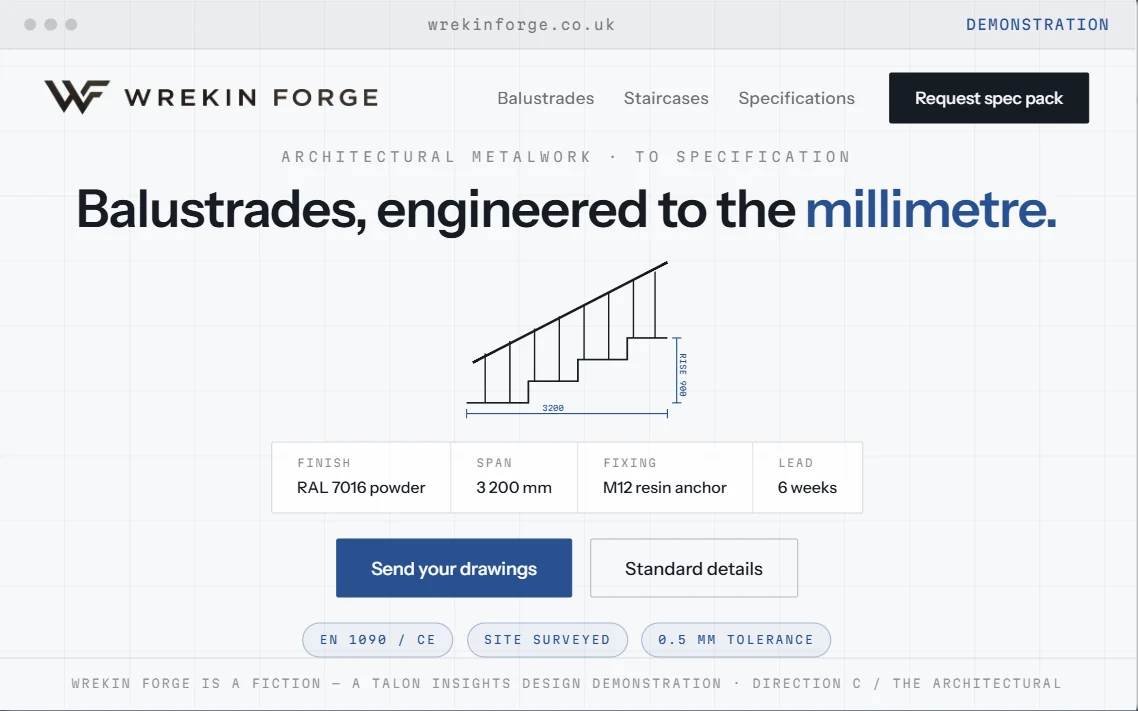
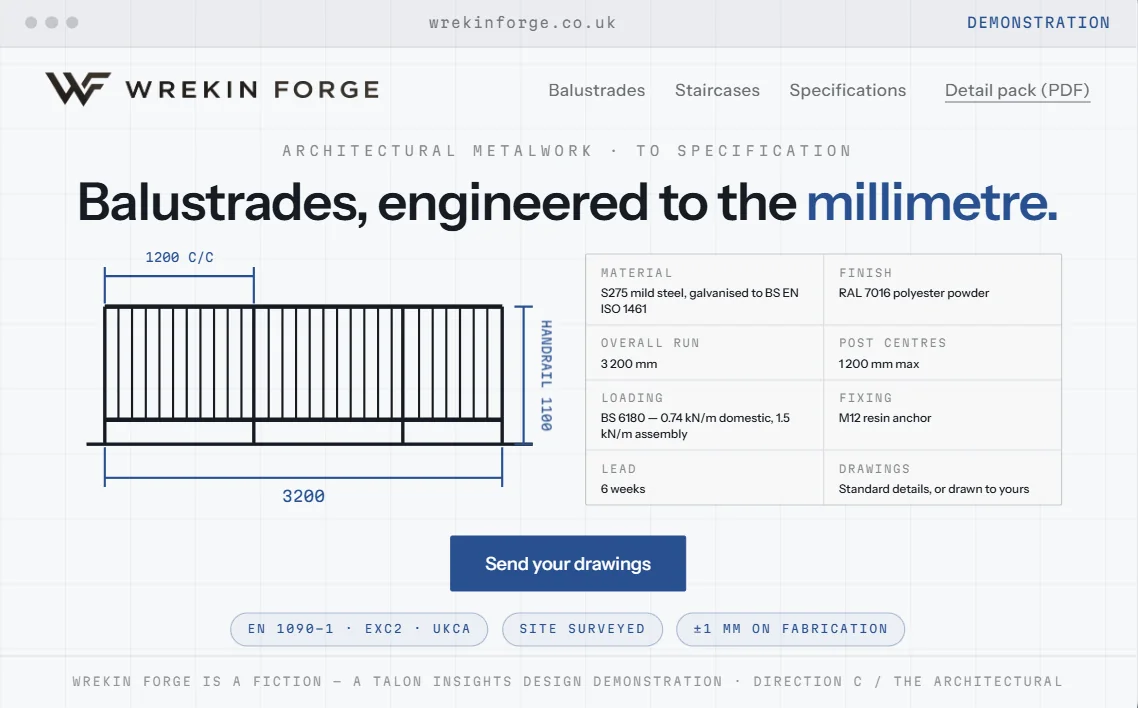
The cards catch up, and the fire page loses its second ask
The heritage and architectural cards carried portraits of the pages as they
were before the accuracy round, so the folder was still showing claims the
pages no longer make. Owner recaptured both; re-encoded at 84 and dropped in
under the same names.

On the fire page the top-right Commission button went (owner's call — two
asks for the same thing, and the stage's own Commission a piece is the one
that stokes the fire when you reach for it). The bar is logo left, sections
right now, with a little more air between them to hold that side on its own,
and every fh-navcta rule went with the button. Its standard reference was
the vague one Direction C has already outgrown: EN 1090-1 · EXC2 · UKCA.

diff --git a/src/components/directions/fire-hero.css b/src/components/directions/fire-hero.css
@@ -63,7 +63,7 @@
 .fh-nav {
   position: relative;
   z-index: 2; /* the ember sky's canvas reaches up under the nav — without
-                 this its opaque ground covers the CTA's bottom border */
+                 this its opaque ground covers the links' baseline */
   display: flex;
   align-items: center;
   gap: 3cqw;
@@ -78,7 +78,7 @@
   display: block;
   flex: none;
 }
-.fh-links { margin-left: auto; display: flex; gap: 2.6cqw; }
+.fh-links { margin-left: auto; display: flex; align-items: center; gap: 3.4cqw; }
 .fh-links button {
   background: none;
   border: 0;
@@ -94,7 +94,6 @@
   transition: color 180ms ease;
 }
 .fh-links button:hover { color: #f4ede4; }
-.fh-navcta,
 .fh-primary {
   display: inline-flex;
   align-items: center;
@@ -112,11 +111,6 @@
   box-shadow: 0 0 1.6cqw -0.6cqw rgb(var(--fh-ember-rgb) / 0.5);
   transition: border-color 180ms ease, box-shadow 180ms ease, color 180ms ease;
 }
-.fh-navcta {
-  padding: 1cqw 2.2cqw;
-  font-size: 1.9cqw;
-}
-.fh-navcta:hover,
 .fh-primary:hover {
   border-color: rgb(var(--fh-ember-rgb) / 0.9);
   color: var(--fh-ember-hot);
@@ -272,7 +266,6 @@
 /* keyboard users get the same heat, stated plainly */
 .fh-primary:focus-visible,
 .fh-ghost:focus-visible,
-.fh-navcta:focus-visible,
 .fh-links button:focus-visible {
   outline: 2px solid var(--fh-ember);
   outline-offset: 3px;

diff --git a/src/components/directions/FireHero.tsx b/src/components/directions/FireHero.tsx
@@ -433,7 +433,6 @@ export default function FireHero() {
           <button type="button">Railings</button>
           <button type="button">Staircases</button>
         </nav>
-        <button type="button" className="fh-navcta">Commission</button>
       </div>
 
       <div className="fh-stage">
@@ -469,7 +468,7 @@ export default function FireHero() {
           <span>EST. 1998</span>
           <span>HAND-FORGED</span>
           <span>SITE-MEASURED</span>
-          <span>EN 1090</span>
+          <span>EN 1090-1 · EXC2 · UKCA</span>
         </div>
       </div>
 
